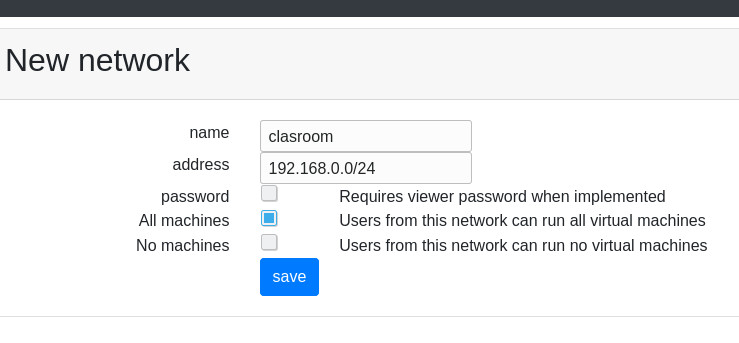
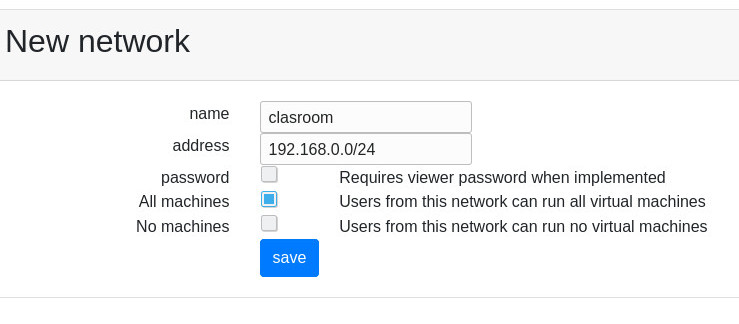
refactor(doc): kiosk mode machine network

diff --git a/docs/docs/Kiosk_mode.rst b/docs/docs/Kiosk_mode.rst
@@ -37,7 +37,7 @@ be selected.
 
 In this example we configure anonymous access to the base called *focal*.
 
-.. image:: images/new_network.jpg
+.. image:: images/network_machines.jpg
 
 Setting a base as *public* allows any known user with access to run it. Anonymous gives
 access to everyone in your network without an username.
